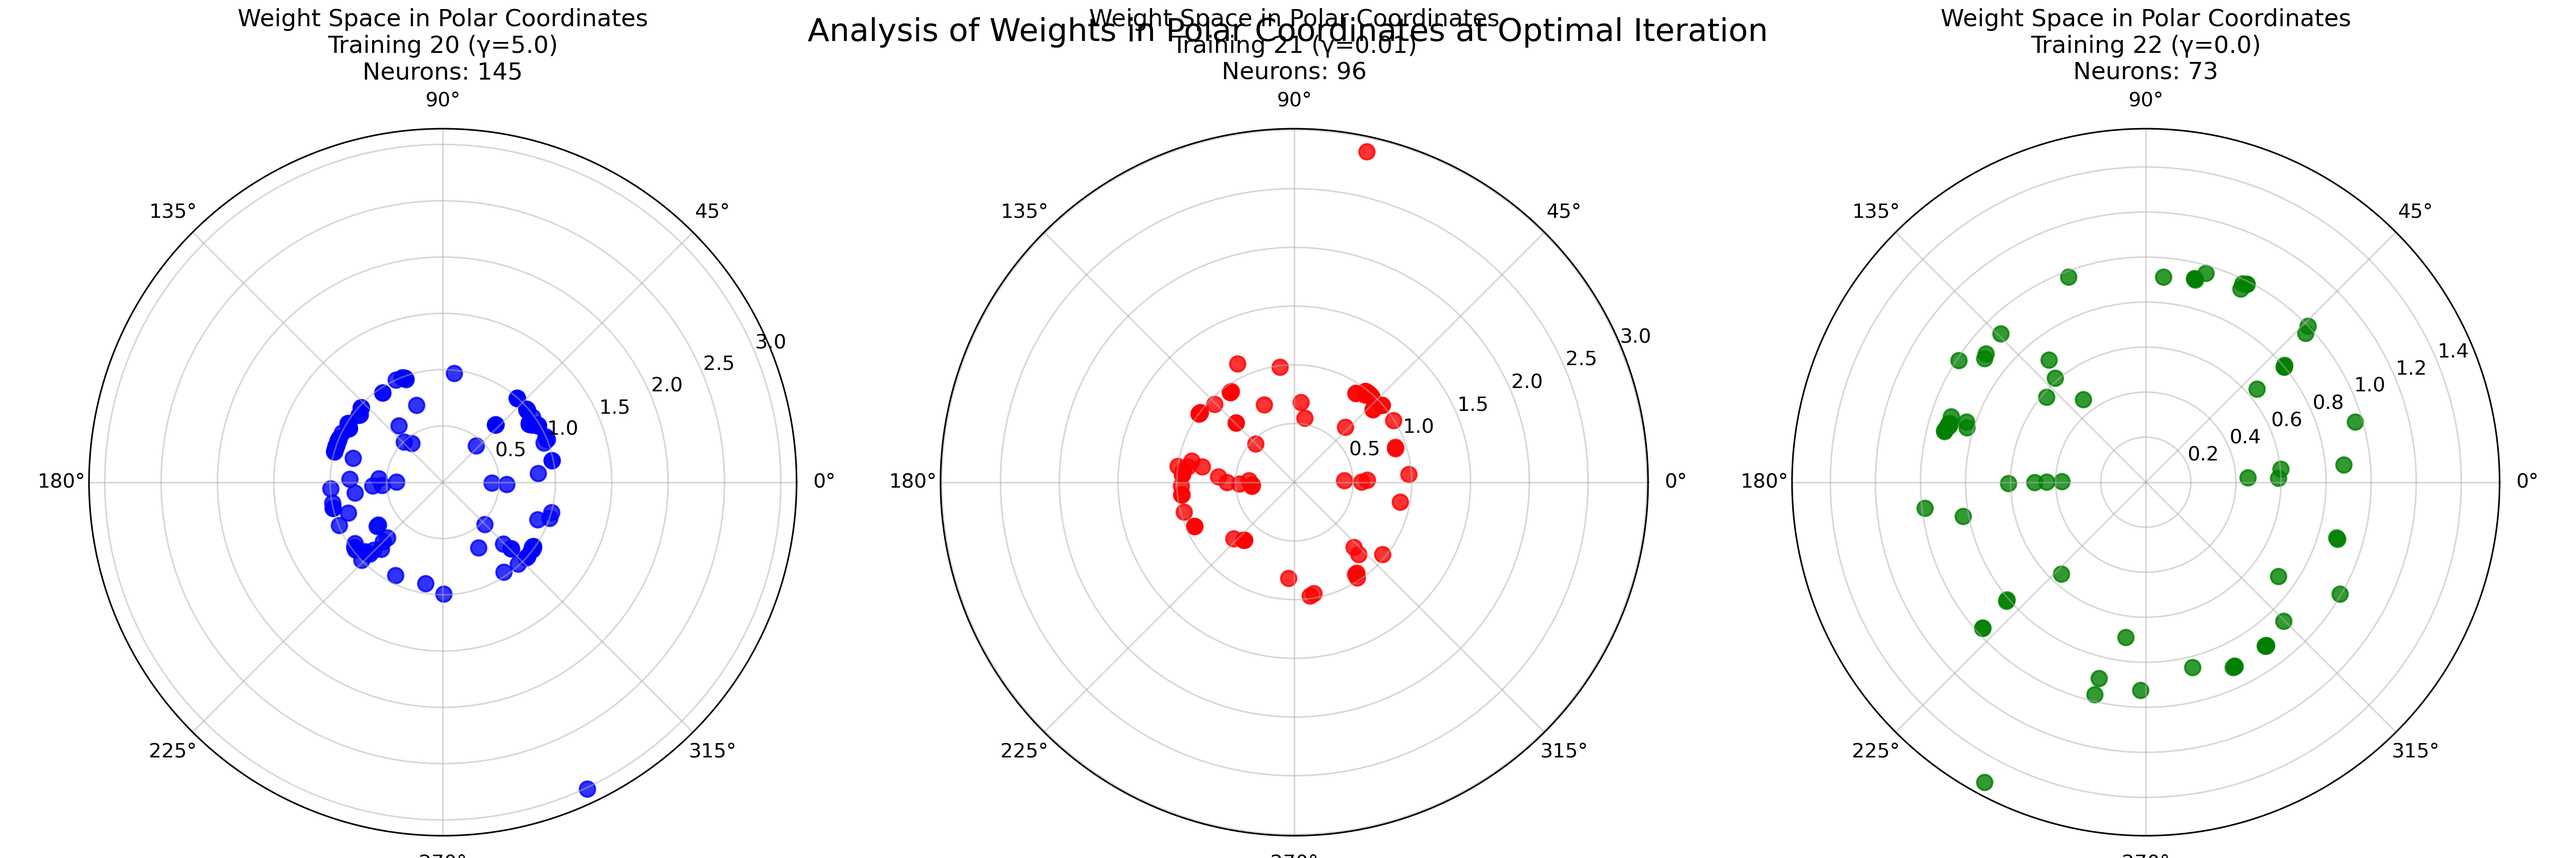
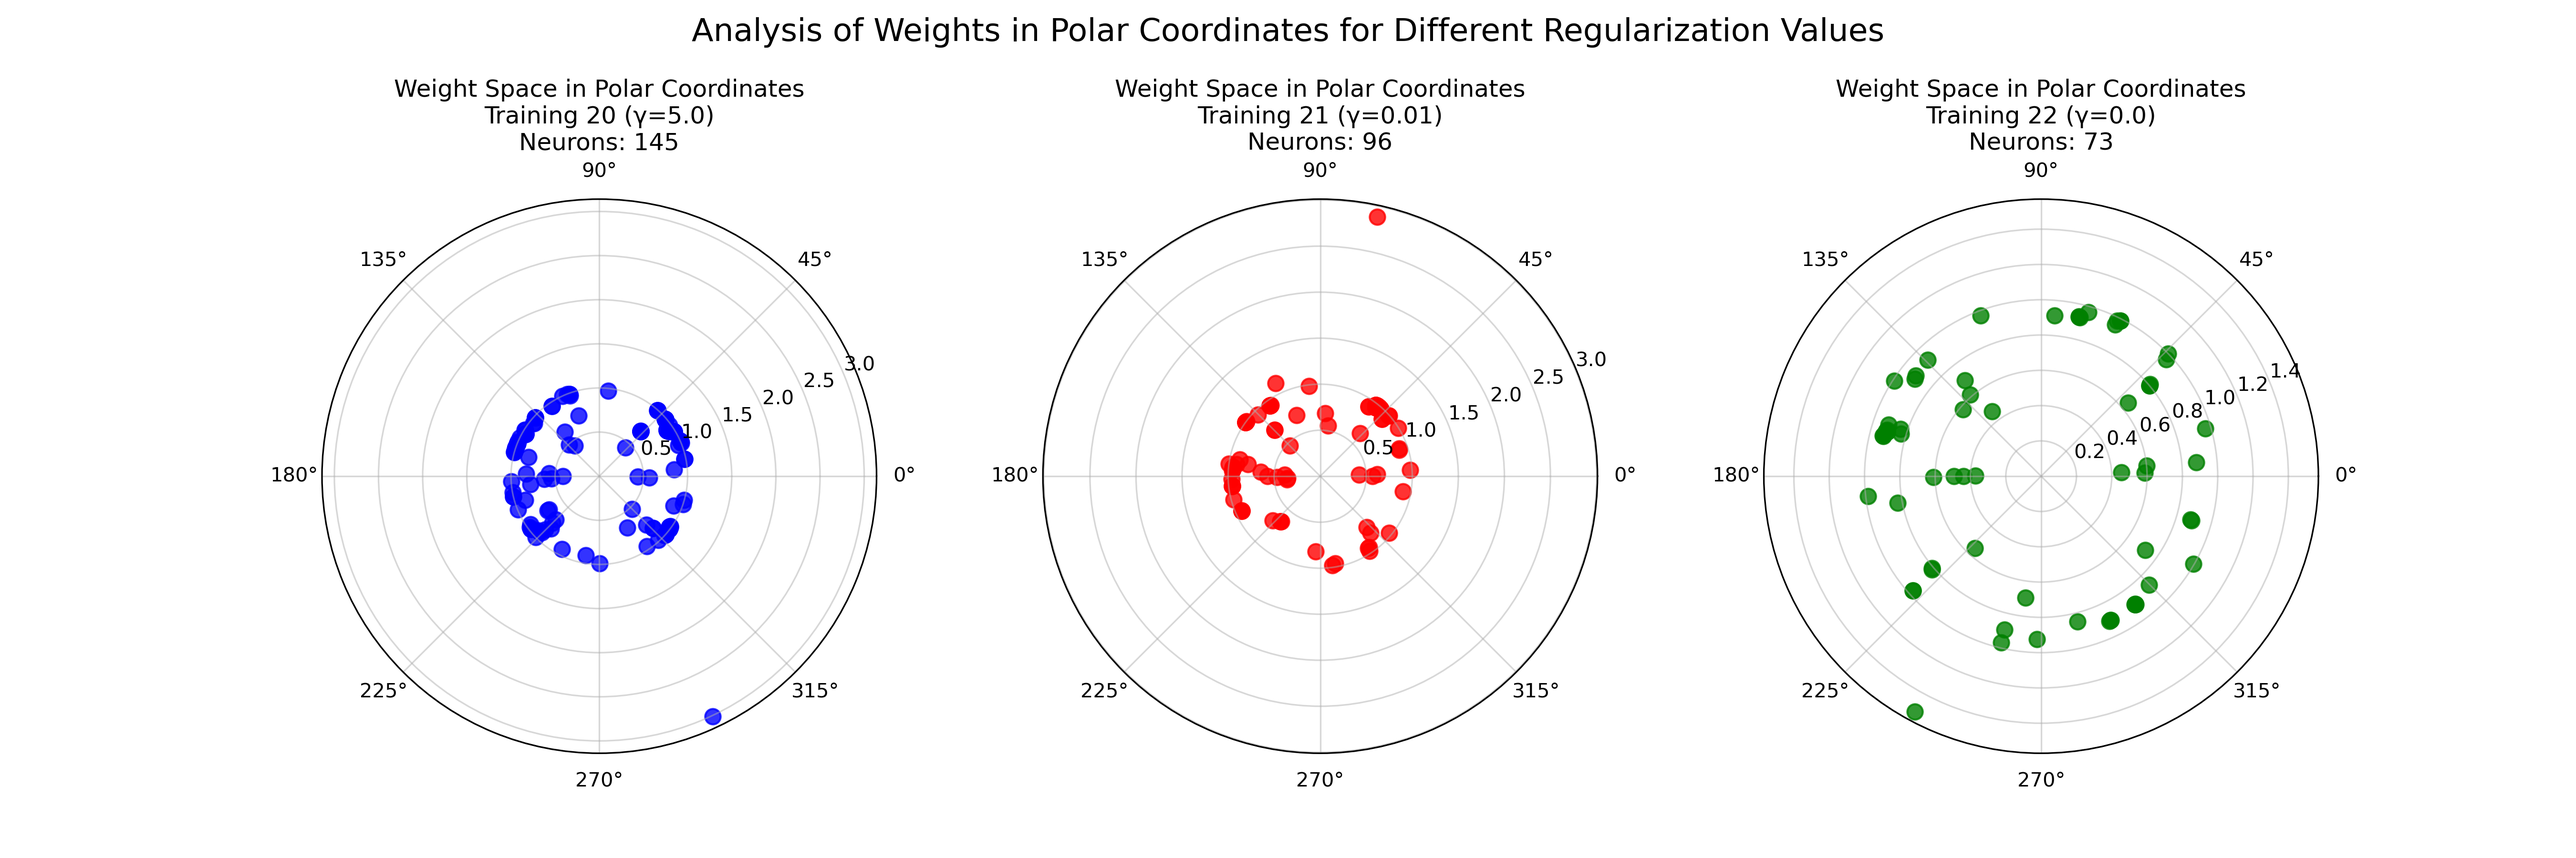
updated experiments and plots

diff --git a/data_result/post_processing.py b/data_result/post_processing.py
@@ -217,10 +217,9 @@ if weights_20_iter7 is not None and weights_21_iter8 is not None and weights_22_
     axes[2].set_title(f'Weight Space in Polar Coordinates\nTraining 22 (γ={gamma_22})\nNeurons: {neurons_22_iter7}', fontsize=12)
     axes[2].grid(True, alpha=0.5)
     
-    # Add a main title
-    plt.suptitle('Analysis of Weights in Polar Coordinates at Optimal Iteration', fontsize=16)
-    plt.tight_layout()
-    plt.subplots_adjust(top=0.85)
+    # Add a main title with more space between it and the subplots
+    plt.subplots_adjust(top=0.78, wspace=0.3)
+    plt.suptitle('Analysis of Weights in Polar Coordinates for Different Regularization Values', fontsize=16)
     
     # Save the figure
     plt.savefig('data_result/plot/weights_polar_analysis.png', dpi=300)
